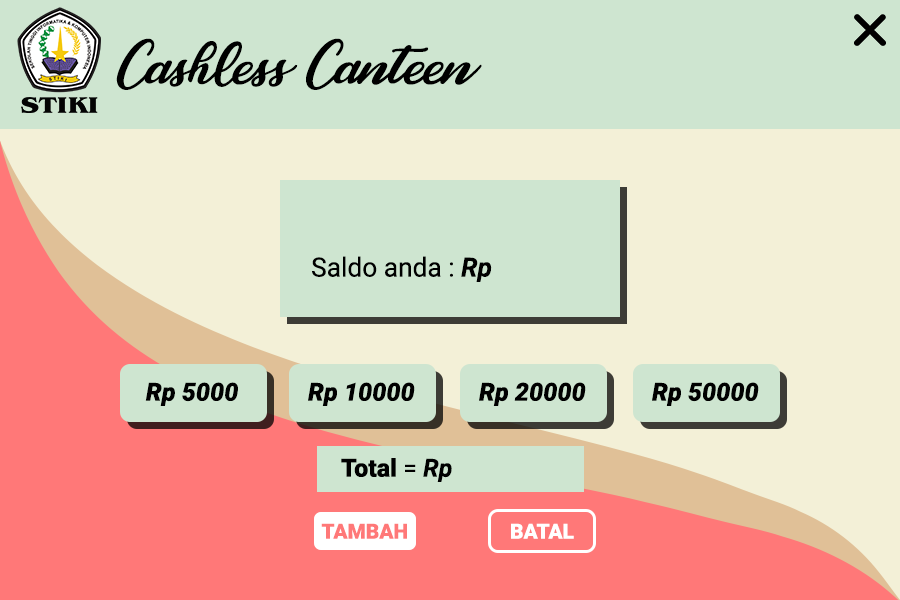
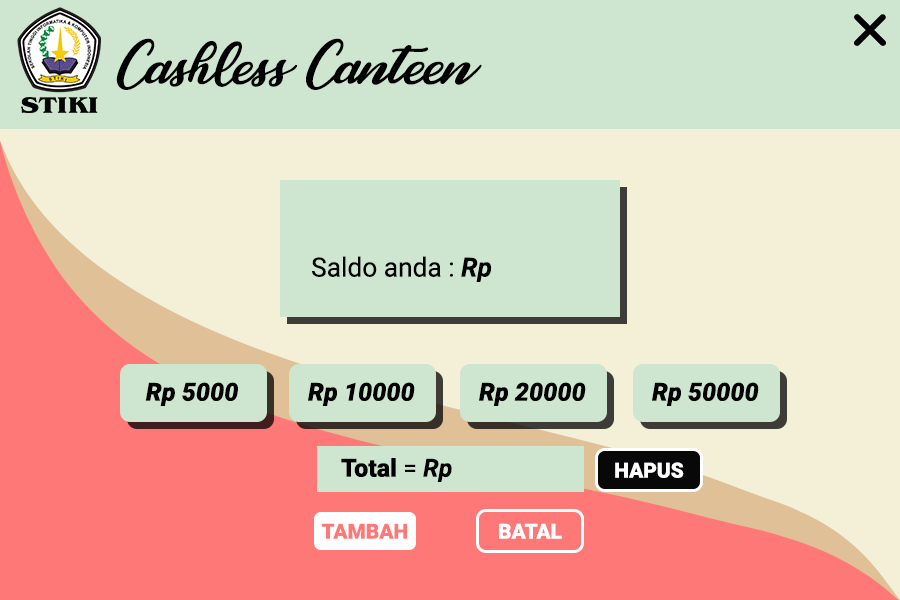
Update besar

Changed region(s): [[0.6533, 0.72, 0.8089, 0.84], [0.5289, 0.84, 0.6844, 0.93]]

diff --git a/src/User/Menu_TopUp.java b/src/User/Menu_TopUp.java
@@ -72,6 +72,7 @@ public class Menu_TopUp extends javax.swing.JFrame {
         username = new javax.swing.JLabel();
         btn_close = new javax.swing.JLabel();
         btn_back = new javax.swing.JLabel();
+        jLabel3 = new javax.swing.JLabel();
         tm_saldo = new javax.swing.JLabel();
         btn_tambah = new javax.swing.JLabel();
         btn_50000 = new javax.swing.JLabel();
@@ -79,7 +80,6 @@ public class Menu_TopUp extends javax.swing.JFrame {
         btn_10000 = new javax.swing.JLabel();
         btn_5000 = new javax.swing.JLabel();
         txt_total = new javax.swing.JLabel();
-        btn_hapus = new javax.swing.JButton();
         BG = new javax.swing.JLabel();
 
         setDefaultCloseOperation(javax.swing.WindowConstants.EXIT_ON_CLOSE);
@@ -121,6 +121,13 @@ public class Menu_TopUp extends javax.swing.JFrame {
             }
         });
         getContentPane().add(btn_back, new org.netbeans.lib.awtextra.AbsoluteConstraints(490, 510, 100, 40));
+
+        jLabel3.addMouseListener(new java.awt.event.MouseAdapter() {
+            public void mouseClicked(java.awt.event.MouseEvent evt) {
+                jLabel3MouseClicked(evt);
+            }
+        });
+        getContentPane().add(jLabel3, new org.netbeans.lib.awtextra.AbsoluteConstraints(595, 450, 107, 40));
 
         tm_saldo.setFont(new java.awt.Font("Tahoma", 0, 24)); // NOI18N
         tm_saldo.setText("0");
@@ -170,20 +177,6 @@ public class Menu_TopUp extends javax.swing.JFrame {
         txt_total.setText("0");
         getContentPane().add(txt_total, new org.netbeans.lib.awtextra.AbsoluteConstraints(490, 450, 120, 42));
 
-        btn_hapus.setText("Hapus");
-        btn_hapus.setCursor(new java.awt.Cursor(java.awt.Cursor.HAND_CURSOR));
-        btn_hapus.addMouseListener(new java.awt.event.MouseAdapter() {
-            public void mouseClicked(java.awt.event.MouseEvent evt) {
-                btn_hapusMouseClicked(evt);
-            }
-        });
-        btn_hapus.addActionListener(new java.awt.event.ActionListener() {
-            public void actionPerformed(java.awt.event.ActionEvent evt) {
-                btn_hapusActionPerformed(evt);
-            }
-        });
-        getContentPane().add(btn_hapus, new org.netbeans.lib.awtextra.AbsoluteConstraints(590, 450, 100, 40));
-
         BG.setIcon(new javax.swing.ImageIcon(getClass().getResource("/Images/User/Top-Up Menu.png"))); // NOI18N
         getContentPane().add(BG, new org.netbeans.lib.awtextra.AbsoluteConstraints(0, 0, 900, 600));
 
@@ -231,15 +224,6 @@ public class Menu_TopUp extends javax.swing.JFrame {
         txt_total.setText(String.valueOf(total));
     }//GEN-LAST:event_btn_50000MouseClicked
 
-    private void btn_hapusMouseClicked(java.awt.event.MouseEvent evt) {//GEN-FIRST:event_btn_hapusMouseClicked
-        // TODO add your handling code here:
-        resetTextTotal();
-    }//GEN-LAST:event_btn_hapusMouseClicked
-
-    private void btn_hapusActionPerformed(java.awt.event.ActionEvent evt) {//GEN-FIRST:event_btn_hapusActionPerformed
-        // TODO add your handling code here:
-    }//GEN-LAST:event_btn_hapusActionPerformed
-
     private void jLabel1MouseClicked(java.awt.event.MouseEvent evt) {//GEN-FIRST:event_jLabel1MouseClicked
         // TODO add your handling code here:
         System.exit(0);
@@ -279,6 +263,11 @@ public class Menu_TopUp extends javax.swing.JFrame {
             JOptionPane.showMessageDialog(null, "Nominal top-up tidak boleh nol!");
         }
     }//GEN-LAST:event_btn_tambahMouseClicked
+
+    private void jLabel3MouseClicked(java.awt.event.MouseEvent evt) {//GEN-FIRST:event_jLabel3MouseClicked
+        // TODO add your handling code here:
+        resetTextTotal();
+    }//GEN-LAST:event_jLabel3MouseClicked
 
     /**
      * @param args the command line arguments
@@ -323,10 +312,10 @@ public class Menu_TopUp extends javax.swing.JFrame {
     private javax.swing.JLabel btn_50000;
     private javax.swing.JLabel btn_back;
     private javax.swing.JLabel btn_close;
-    private javax.swing.JButton btn_hapus;
     private javax.swing.JLabel btn_tambah;
     private javax.swing.JLabel jLabel1;
     private javax.swing.JLabel jLabel2;
+    private javax.swing.JLabel jLabel3;
     private javax.swing.JLabel tm_saldo;
     private javax.swing.JLabel txt_total;
     private javax.swing.JLabel username;

diff --git a/src/Admin/Menu_Atur_Toko.java b/src/Admin/Menu_Atur_Toko.java
@@ -68,24 +68,22 @@ public class Menu_Atur_Toko extends javax.swing.JFrame {
         getContentPane().setLayout(new org.netbeans.lib.awtextra.AbsoluteLayout());
 
         jLabel4.setHorizontalAlignment(javax.swing.SwingConstants.CENTER);
-        jLabel4.setText("Keluar");
         jLabel4.setCursor(new java.awt.Cursor(java.awt.Cursor.HAND_CURSOR));
         jLabel4.addMouseListener(new java.awt.event.MouseAdapter() {
             public void mouseClicked(java.awt.event.MouseEvent evt) {
                 jLabel4MouseClicked(evt);
             }
         });
-        getContentPane().add(jLabel4, new org.netbeans.lib.awtextra.AbsoluteConstraints(830, 10, 50, 50));
+        getContentPane().add(jLabel4, new org.netbeans.lib.awtextra.AbsoluteConstraints(850, 10, 40, 40));
 
         jLabel3.setHorizontalAlignment(javax.swing.SwingConstants.CENTER);
-        jLabel3.setText("Kembali");
         jLabel3.setCursor(new java.awt.Cursor(java.awt.Cursor.HAND_CURSOR));
         jLabel3.addMouseListener(new java.awt.event.MouseAdapter() {
             public void mouseClicked(java.awt.event.MouseEvent evt) {
                 jLabel3MouseClicked(evt);
             }
         });
-        getContentPane().add(jLabel3, new org.netbeans.lib.awtextra.AbsoluteConstraints(20, 530, 50, 50));
+        getContentPane().add(jLabel3, new org.netbeans.lib.awtextra.AbsoluteConstraints(14, 550, 30, 40));
 
         jLabel2.setCursor(new java.awt.Cursor(java.awt.Cursor.HAND_CURSOR));
         jLabel2.addMouseListener(new java.awt.event.MouseAdapter() {

diff --git a/src/User/Pilih_Menu.java b/src/User/Pilih_Menu.java
@@ -80,7 +80,6 @@ public class Pilih_Menu extends javax.swing.JFrame {
         txt_menu = new javax.swing.JTextField();
         txt_harga = new javax.swing.JTextField();
         txt_jml = new javax.swing.JTextField();
-        tm_memesan = new javax.swing.JLabel();
         tm_saldo = new javax.swing.JLabel();
         btn_pesan = new javax.swing.JLabel();
         btn_cancel = new javax.swing.JLabel();
@@ -242,7 +241,6 @@ public class Pilih_Menu extends javax.swing.JFrame {
         txt_jml.setText("0");
         txt_jml.setBorder(null);
         getContentPane().add(txt_jml, new org.netbeans.lib.awtextra.AbsoluteConstraints(749, 196, 70, 30));
-        getContentPane().add(tm_memesan, new org.netbeans.lib.awtextra.AbsoluteConstraints(511, 160, 360, 270));
 
         tm_saldo.setFont(new java.awt.Font("Tahoma", 0, 24)); // NOI18N
         tm_saldo.setText("0");
@@ -680,7 +678,6 @@ public class Pilih_Menu extends javax.swing.JFrame {
     private javax.swing.JTable tbl_menu;
     private javax.swing.JTable tbl_pesan;
     private javax.swing.JLabel template;
-    private javax.swing.JLabel tm_memesan;
     private javax.swing.JLabel tm_saldo;
     private javax.swing.JTextField txt_harga;
     private javax.swing.JTextField txt_jml;
